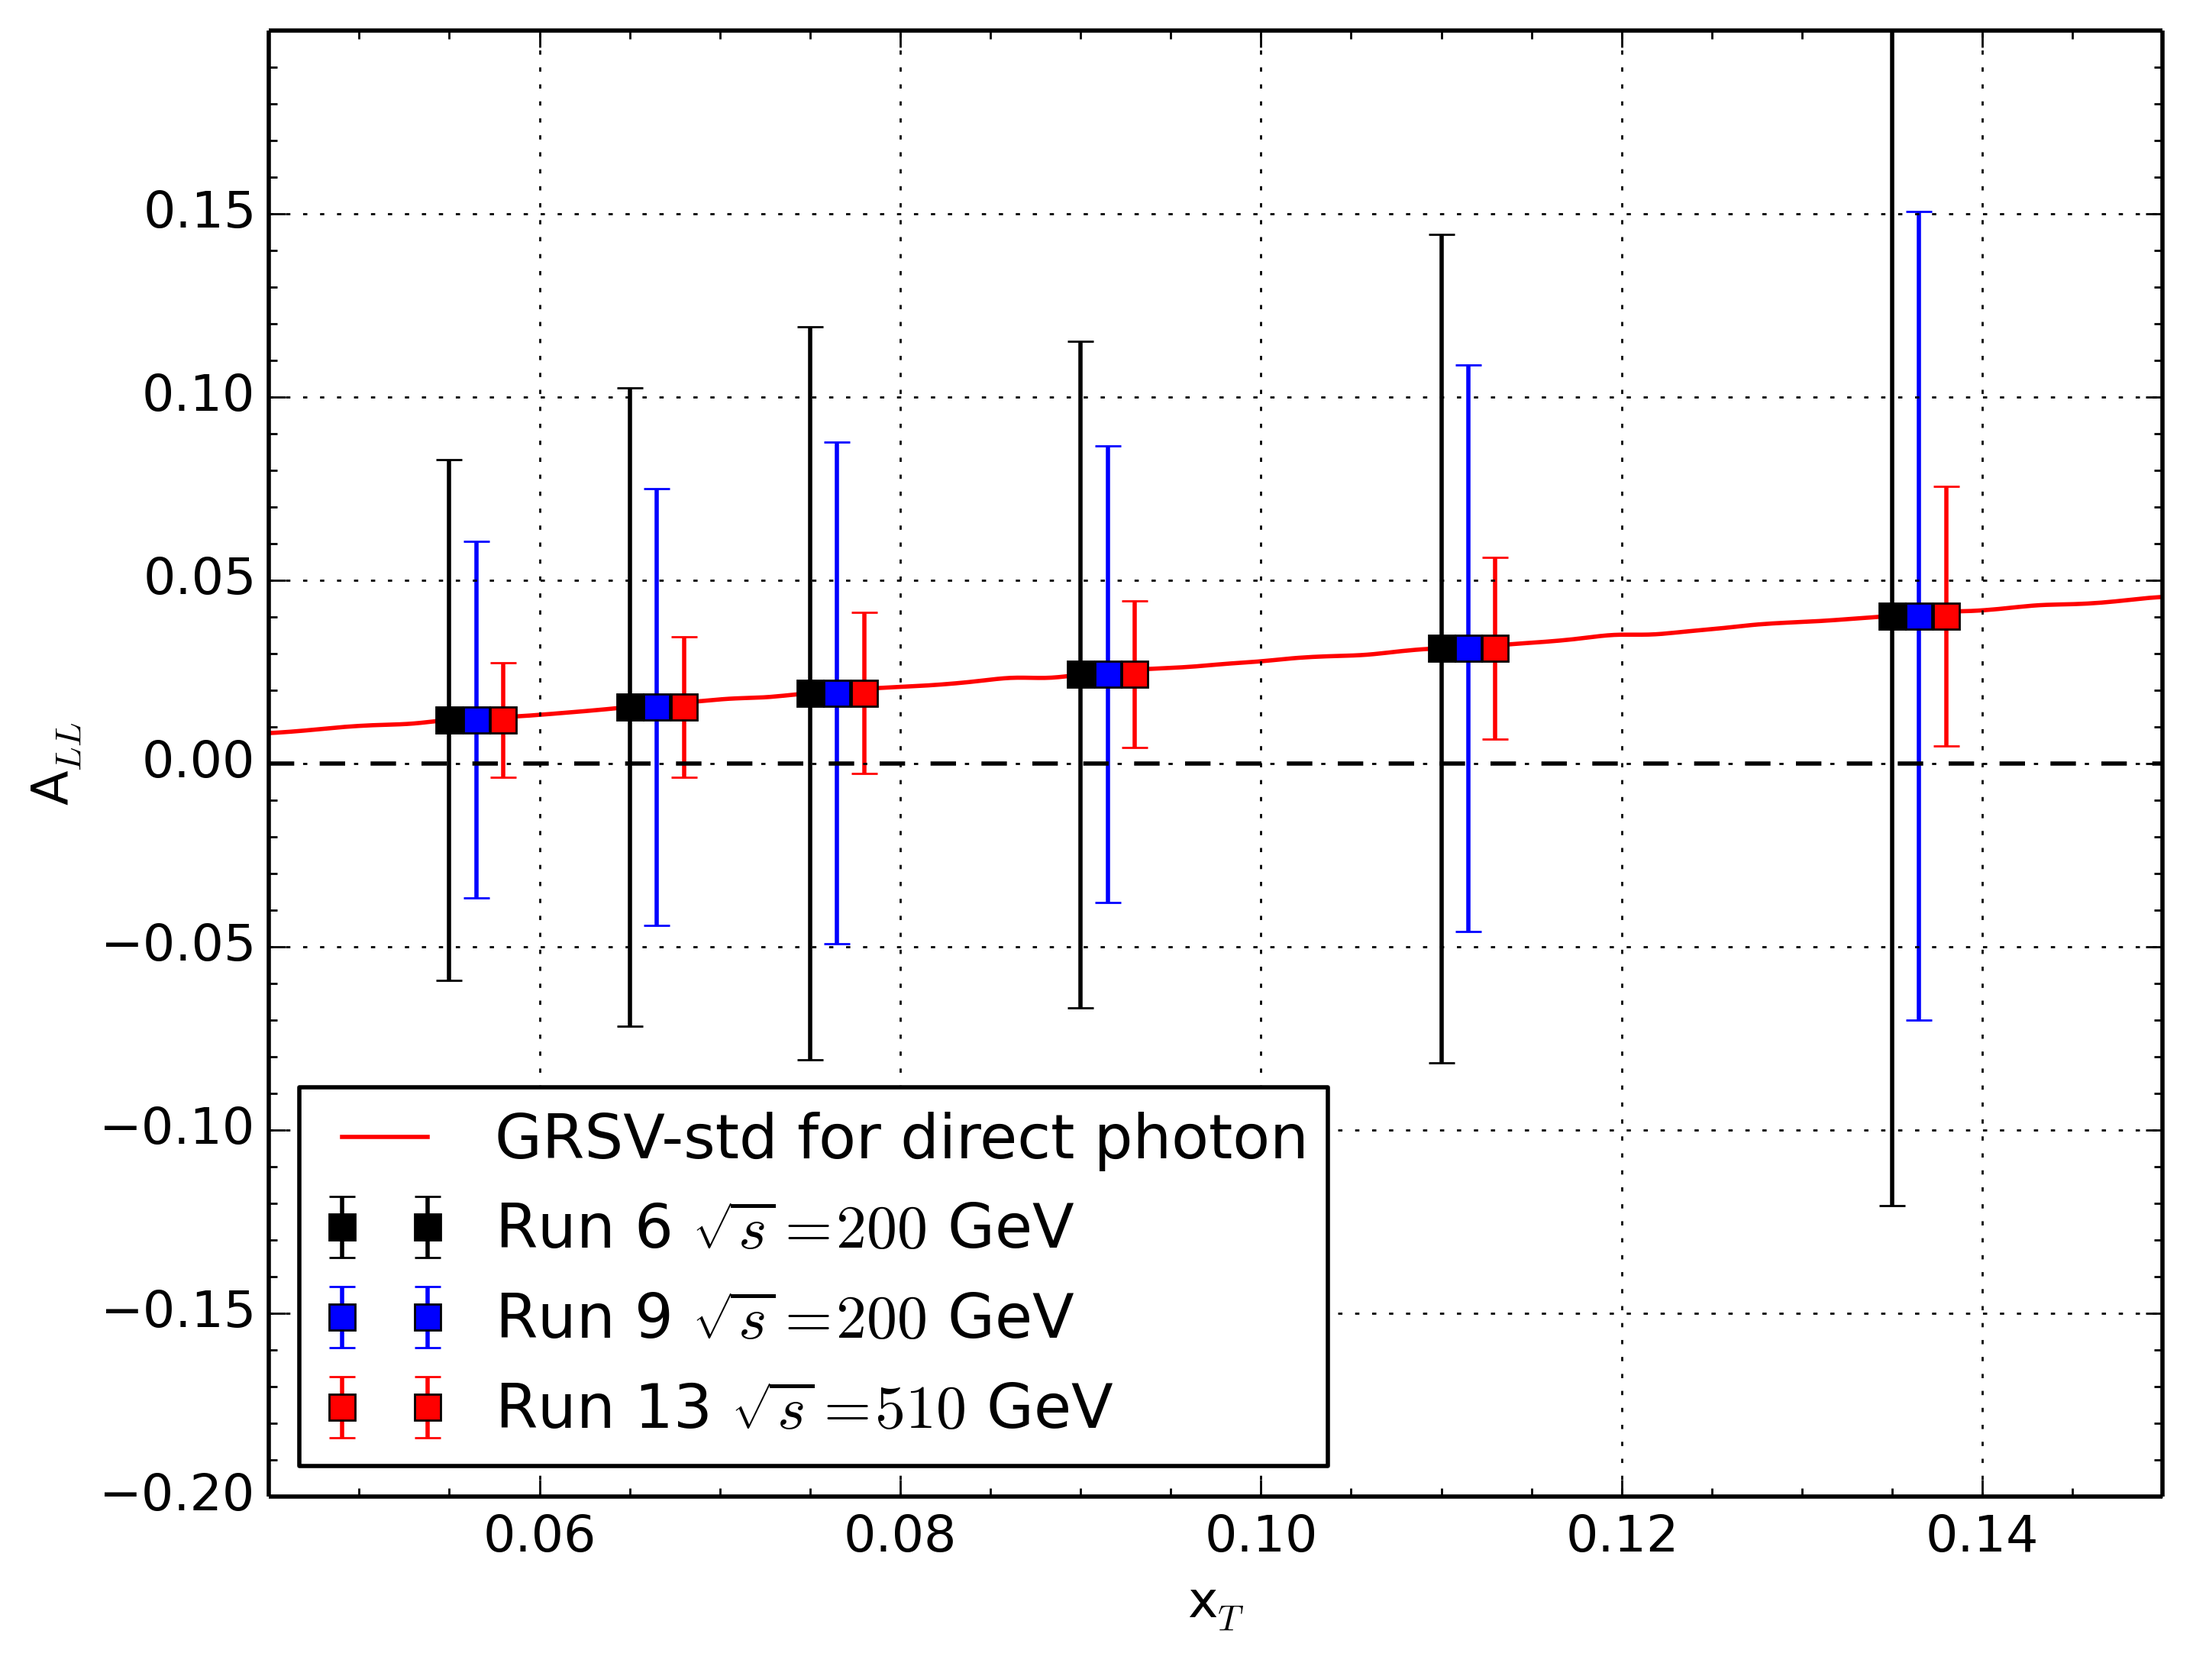
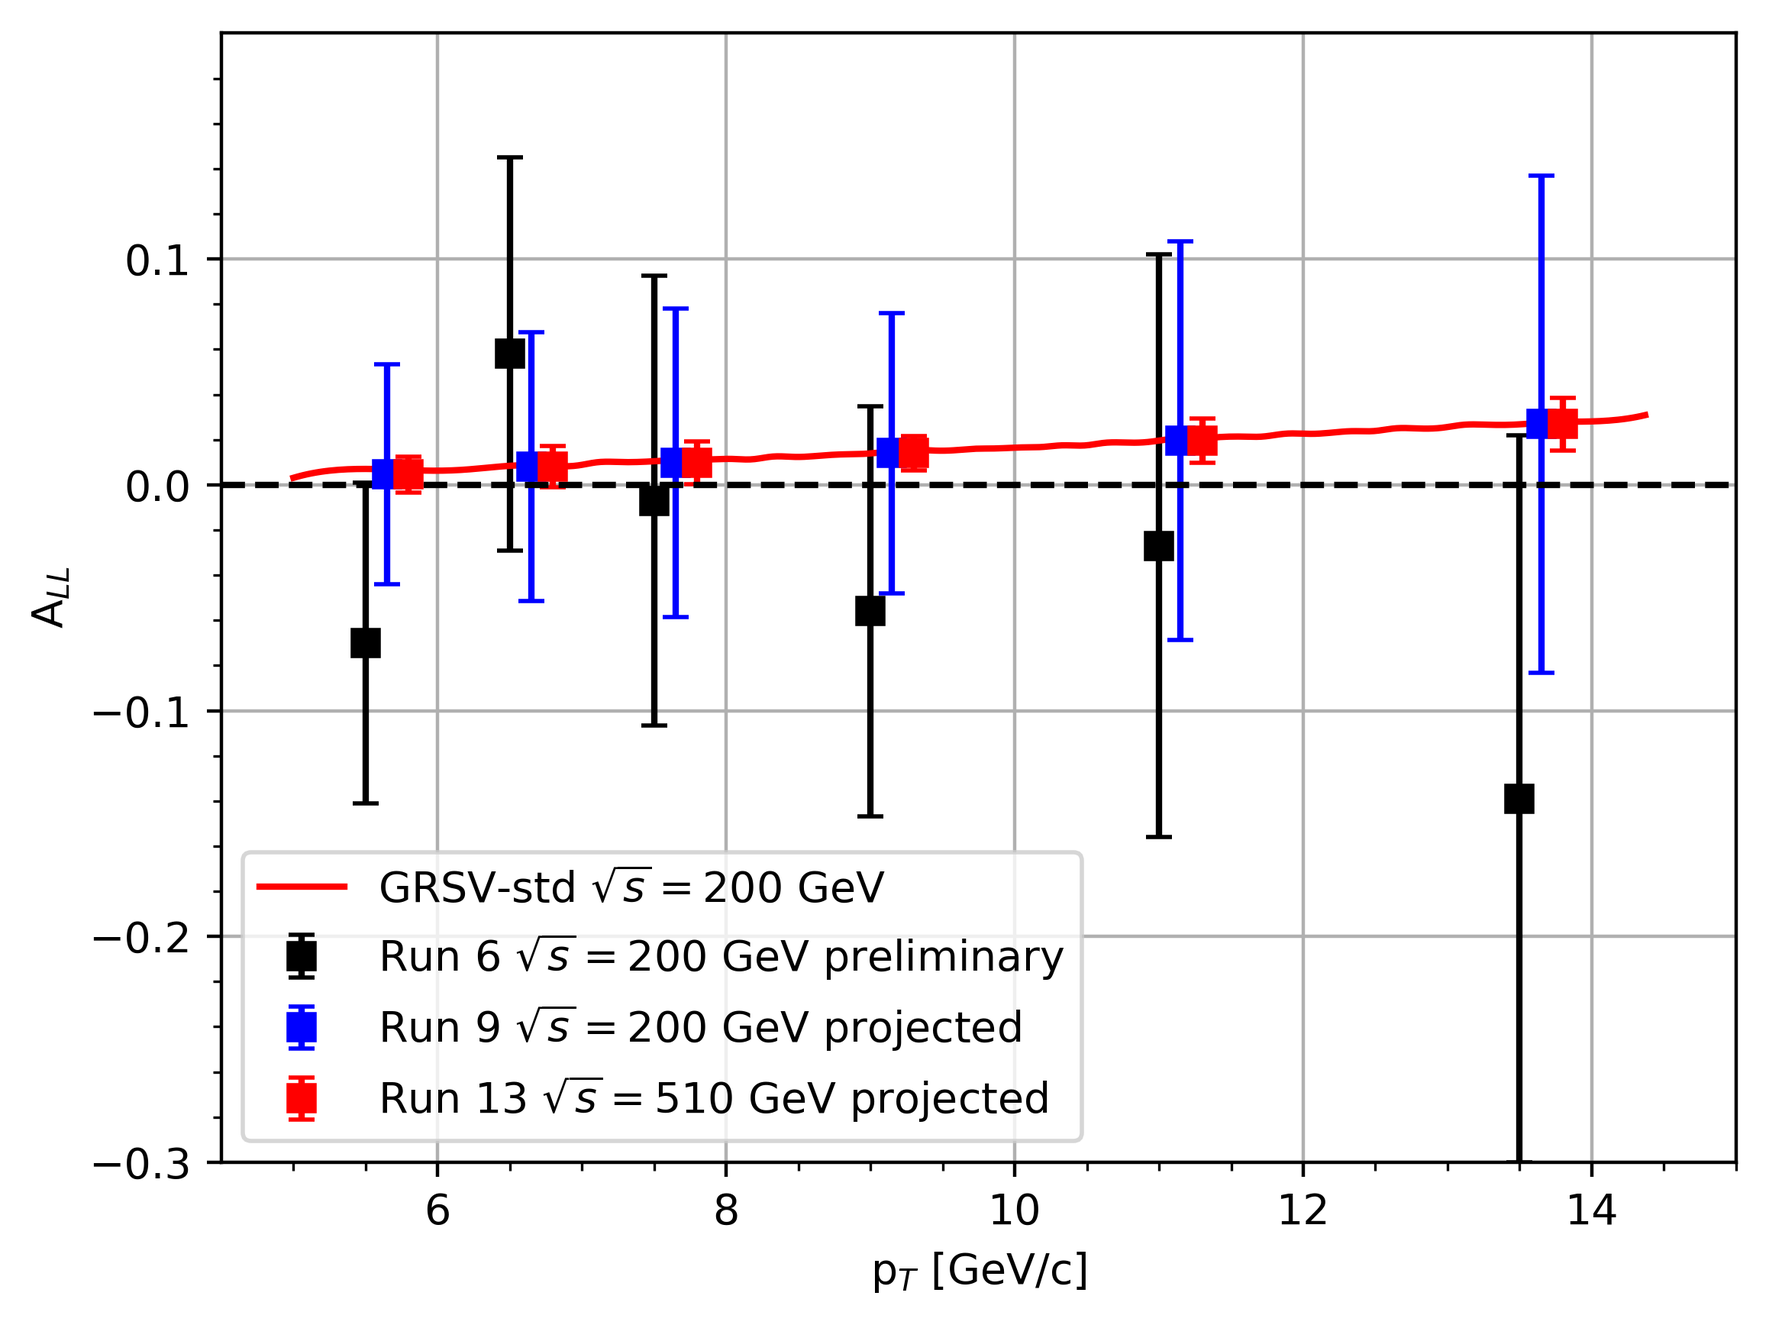
Added run 6 A_LL preliminary

diff --git a/ProjectUncertainties/projection_grsv.py b/ProjectUncertainties/projection_grsv.py
@@ -6,10 +6,10 @@
 import matplotlib.pyplot as plt
 import numpy as np
 import math
-from scipy.interpolate import spline
 
 import csv
 from scipy.interpolate import interp1d
+from scipy.interpolate import spline
 
 # PHENIX recorded luminosities from The RHIC Spin Program: Achievements and Opportunities (1/2015) in units of pb-1
 phenix_lumi_recorded = {
@@ -26,8 +26,8 @@ for i, r in enumerate(phenix_lumi_recorded):
 l_pT_bin_min_R6 = [ 5, 6, 7,  8, 10, 12 ]
 l_pT_bin_max_R6 = [ 6, 7, 8, 10, 12, 15 ]
 
-l_ALL_R6 = [ -0.070 , 0.058 , -0.006 , -0.056 , -0.027 , -0.139 ]
-l_dALL_R6 = [ 0.071 , 0.087 , 0.100 , 0.091 , 0.113 , 0.161 ]
+l_ALL_R6 = [ -0.07 , 0.058 , -0.007 , -0.056 , -0.027 , -0.139 ]
+l_dALL_R6 = [ 0.071 , 0.087 , 0.0996 , 0.0908 , 0.129 , 0.161 ]
 
 l_pT_bin_ctr_R6 = [ (x + y)/2.0 for x, y in zip(l_pT_bin_min_R6, l_pT_bin_max_R6)]
 
@@ -76,21 +76,14 @@ csvfile.close()
 
 print zip( xsec_pi0_pp510_pT, xsec_pi0_pp510_xsec )
 
-# convert pT to xT
-l_xT_bin_ctr_R6 = np.divide( l_pT_bin_ctr_R6 , 200.0/2 )
-xsec_pi0_pp200_xT = np.divide( xsec_pi0_pp200_pT , 200.0/2 )
-xsec_pi0_pp510_xT = np.divide( xsec_pi0_pp510_pT , 510.0/2 )
-
 # create interpolation objects for cross section
 interpol_directphoton_pp200 = interp1d(xsec_directphoton_pp200_pT, xsec_directphoton_pp200_xsec)
 interpol_pi0_pp200 = interp1d(xsec_pi0_pp200_pT, xsec_pi0_pp200_xsec)
 interpol_pi0_pp510 = interp1d(xsec_pi0_pp510_pT, xsec_pi0_pp510_xsec)
-interpol_pi0_pp200_xT = interp1d(xsec_pi0_pp200_xT, xsec_pi0_pp200_xsec)
-interpol_pi0_pp510_xT = interp1d(xsec_pi0_pp510_xT, xsec_pi0_pp510_xsec)
 
 # estimate cross section ratio for direct photons at 510 GeV / direct photons at 200 GeV at pT bins for ALL
-xsec_directphoton_pp510_over_pp200 = [ 1.#( (interpol_pi0_pp510_xT(x)*510.0) / (interpol_pi0_pp200_xT(x)*200.0) )
-                                       for x in l_xT_bin_ctr_R6 ]
+xsec_directphoton_pp510_over_pp200 = [ ( interpol_pi0_pp510(x) / interpol_pi0_pp200(x) )
+                                       for x in l_pT_bin_ctr_R6 ]
 print "Cross section ratios:"
 print xsec_directphoton_pp510_over_pp200
 
@@ -126,27 +119,17 @@ plt.show()
 plt.close()
 
 
-# DSSV theory curve
-fig_projected_dALL_pT = plt.figure()
-dssv_pT = np.array( [ 5.50388, 6.03711, 6.50681, 6.86229, 7.50971, 8.27140, 9.00771, 9.65518, 10.4930, 11.0008, 11.7244, 12.5877, 13.5018, 14.3523, 14.7459 ] ) 
-dssv_ALL = np.array( [ 0.00348347, 0.00630450, 0.00727476, 0.00915544, 0.0101439, 0.0120662, 0.0139859, 0.0168186, 0.0187488, 0.0197229, 0.0225634, 0.0244962, 0.0282783, 0.0302097, 0.0320943 ] )
-dssv_xT = np.divide( dssv_pT , 200.0/2 )
-dssv_xnew = np.linspace( dssv_xT.min(), dssv_xT.max(), 300)
-dssv_smooth = spline( dssv_xT, dssv_ALL, dssv_xnew)
-#plt.plot( dssv_xnew, dssv_smooth, color='r', label='GRSV-std for direct photon' )
 
 # GRSV theory curve
-grsv_pT = np.array( [ 1.10e+1, 1.15e+1, 1.20e+1, 1.25e+1, 1.30e+1, 1.35e+1, 1.40e+1, 1.45e+1, 1.50e+1, 1.55e+1, 1.60e+1, 1.65e+1, 1.70e+1, 1.75e+1, 1.80e+1, 1.85e+1, 1.90e+1, 1.95e+1, 2.00e+1, 2.05e+1, 2.10e+1, 2.15e+1, 2.20e+1, 2.25e+1, 2.30e+1, 2.35e+1, 2.40e+1, 2.45e+1, 2.50e+1, 2.55e+1, 2.60e+1,  2.65e+1,  2.70e+1,  2.75e+1,  2.80e+1,  2.85e+1,  2.90e+1,  2.95e+1,  3.00e+1,  3.05e+1,  3.10e+1, 3.15e+1, 3.20e+1, 3.25e+1, 3.30e+1, 3.35e+1, 3.40e+1, 3.45e+1, 3.50e+1, 3.55e+1, 3.60e+1, 3.65e+1, 3.70e+1, 3.75e+1, 3.80e+1, 3.85e+1, 3.90e+1, 3.95e+1, 4.00e+1 ] ) 
-grsv_ALL = np.array( [ 7.93e-3, 8.33e-3, 9.04e-3, 9.93e-3, 1.05e-2, 1.09e-2, 1.19e-2, 1.25e-2, 1.29e-2, 1.36e-2, 1.44e-2, 1.53e-2, 1.62e-2, 1.69e-2, 1.77e-2, 1.81e-2, 1.90e-2, 1.98e-2, 2.05e-2, 2.10e-2, 2.16e-2, 2.25e-2, 2.34e-2, 2.34e-2, 2.44e-2, 2.53e-2, 2.59e-2, 2.64e-2, 2.72e-2, 2.79e-2, 2.88e-2, 2.93e-2, 2.97e-2, 3.07e-2, 3.14e-2, 3.17e-2, 3.25e-2, 3.32e-2, 3.41e-2, 3.51e-2, 3.52e-2, 3.60e-2, 3.69e-2, 3.79e-2, 3.85e-2, 3.90e-2, 3.97e-2, 4.04e-2, 4.13e-2, 4.16e-2, 4.23e-2, 4.32e-2, 4.35e-2, 4.41e-2, 4.51e-2, 4.57e-2, 4.60e-2, 4.67e-2, 4.76e-2 ] )
-grsv_xT = np.divide( grsv_pT , 510.0/2 )
-grsv_xnew = np.linspace( grsv_xT.min(), grsv_xT.max(), 300)
-grsv_smooth = spline( grsv_xT, grsv_ALL, grsv_xnew)
-plt.plot( grsv_xnew, grsv_smooth, color='r', label='GRSV-std for direct photon' )
-
+grsv_pT = np.array( [ 5., 6.024, 6.183, 6.642, 6.815, 6.968, 7.107, 7.281, 7.726, 7.879, 8.039, 8.178, 8.324, 8.484, 8.617, 8.783, 8.949, 9.102, 9.284, 9.422, 9.561, 9.714, 9.867, 10.05, 10.19, 10.33, 10.49, 10.62, 10.82, 10.94, 11.1, 11.25, 11.41, 11.57, 11.72, 11.88, 12.06, 12.2, 12.34, 12.49, 12.64, 12.81, 12.96, 13.11, 13.27, 13.42, 13.57, 6.34, 6.49, 7.41, 7.58, 13.75, 13.9, 14.2, 14.37 ] )
+grsv_ALL = np.array( [ 0.0031, 0.006276, 0.006693, 0.008716, 0.008287, 0.008551, 0.01001, 0.01007, 0.01113, 0.01124, 0.01147, 0.01129, 0.01253, 0.01235, 0.01274, 0.01344, 0.0137, 0.01457, 0.01558, 0.01522, 0.01523, 0.01595, 0.01611, 0.01657, 0.01676, 0.01749, 0.01746, 0.01859, 0.01866, 0.01908, 0.02039, 0.0204, 0.02111, 0.02137, 0.02138, 0.02266, 0.02258, 0.02313, 0.02377, 0.02381, 0.02503, 0.02493, 0.02526, 0.02659, 0.02663, 0.02656, 0.02709, 0.00703, 0.007994, 0.009476, 0.009963, 0.02798, 0.02798, 0.02896, 0.03088 ] )
+grsv_xnew = np.linspace( grsv_pT.min(), grsv_pT.max(), 300)
+grsv_smooth = spline( grsv_pT, grsv_ALL, grsv_xnew)
+plt.plot( grsv_xnew, grsv_smooth, color='r', label='GRSV-std $\sqrt{s} = 200$ GeV' )
 
 # interpolate for ALL from GRSV
-interpol_l_ALL_0 = interp1d(grsv_xT, grsv_ALL)
-l_ALL_0 = [ interpol_l_ALL_0(x) for x in l_xT_bin_ctr_R6 ]
+interpol_l_ALL_0 = interp1d(grsv_pT, grsv_ALL)
+l_ALL_0 = [ interpol_l_ALL_0(x) for x in l_pT_bin_ctr_R6 ]
 
 # calculate projected uncertainties for other runs based on luminosity
 l_dALL_projected_R13 = [ x
@@ -162,27 +145,28 @@ l_dALL_projected_R9 = [ x * math.sqrt( phenix_lumi_recorded[ 'Run6pp200' ] ) / m
                         for x in l_dALL_R6 ]
 
 # offset x-values for better visibility
-l_xT_bin_ctr_R13 = [ x + 0.3/100.0 for x in l_xT_bin_ctr_R6 ]
+l_pT_bin_ctr_R13 = [ x + 0.3 for x in l_pT_bin_ctr_R6 ]
 
 # offset x-values for better visibility
-l_xT_bin_ctr_R9 = [ x + 0.15/100.0 for x in l_xT_bin_ctr_R6 ]
+l_pT_bin_ctr_R9 = [ x + 0.15 for x in l_pT_bin_ctr_R6 ]
+l_pT_bin_ctr_R6_R9 = [ x + 0.15 for x in l_pT_bin_ctr_R6 ]
+
 
 # plot Run6 and other projected uncertainties, collection 1
-plt.errorbar( l_xT_bin_ctr_R6 , l_ALL_0 , yerr=l_dALL_R6 , fmt='sk' , label='Run 6 $\sqrt{s} = 200$ GeV' )
-plt.errorbar( l_xT_bin_ctr_R9 , l_ALL_0 , yerr=l_dALL_projected_R9 , fmt='sb' , label='Run 9 $\sqrt{s} = 200$ GeV' )
-plt.errorbar( l_xT_bin_ctr_R13 , l_ALL_0 , yerr=l_dALL_projected_R13 , fmt='sr' , label='Run 13 $\sqrt{s} = 510$ GeV' )
+plt.errorbar( l_pT_bin_ctr_R6 , l_ALL_R6 , yerr=l_dALL_R6 , fmt='sk' , capsize=3 , label='Run 6 $\sqrt{s} = 200$ GeV preliminary' )
+plt.errorbar( l_pT_bin_ctr_R9 , l_ALL_0 , yerr=l_dALL_projected_R9 , fmt='sb' , capsize=3 , label='Run 9 $\sqrt{s} = 200$ GeV projected' )
+plt.errorbar( l_pT_bin_ctr_R13 , l_ALL_0 , yerr=l_dALL_projected_R13 , fmt='sr' , capsize=3 , label='Run 13 $\sqrt{s} = 510$ GeV projected' )
 
-
-plt.xlim([4.5/100.0,15/100.0])
-plt.ylim([-0.2,0.2])
+plt.xlim([4.5,15])
+plt.ylim([-0.3,0.2])
 plt.axhline(y=0.,color='k',ls='dashed')
-plt.xticks( np.arange(6/100.0,16/100.0,2/100.0) )
-plt.yticks( np.arange(-0.2,0.2,0.05) )
+plt.xticks( np.arange(6,16,2) )
+plt.yticks( np.arange(-0.3,0.2,0.1) )
 plt.minorticks_on()
 plt.grid()
-plt.xlabel('x$_T$')
+plt.xlabel('p$_T$ [GeV/c]')
 plt.ylabel('A$_{LL}$')
-plt.legend(loc='best')
+plt.legend(loc='lower left')
 plt.savefig('projected_dALL_pT_Run13.png', dpi=400, bbox_inches='tight', transparent=False)
 plt.show()
 plt.close()

diff --git a/AnaHistos/draw_SysErr.C b/AnaHistos/draw_SysErr.C
@@ -130,7 +130,7 @@ void draw_SysErr()
         if(iso)
         {
           latex->DrawLatexNDC(0.45,0.70, "Isolation cut condition");
-          latex->DrawLatexNDC(0.45,0.60, "#splitline{#sqrt{(#Delta#eta)^{2} + (#Delta#phi)^{2}} < 0.5}{E_{cone} < 0.1E_{#gamma}}");
+          latex->DrawLatexNDC(0.45,0.60, "#splitline{r_{cone} = #sqrt{(#delta#eta)^{2} + (#delta#phi)^{2}} = 0.5}{E_{cone} < 0.1E_{#gamma}}");
         }
 
         pad2->cd();

diff --git a/AnaHistos/draw_BgRatio.C b/AnaHistos/draw_BgRatio.C
@@ -89,7 +89,7 @@ void draw_BgRatio()
 
     mcd(3);
     TGraphErrors *gr = qt_rbg->Graph(part);
-    aset(gr, "p_{T} [GeV]","#Delta r_{sig}", 6.1,16., -0.02,0.1);
+    aset(gr, "p_{T} [GeV]","#Deltar_{sig}", 6.1,16., -0.02,0.1);
     style(gr, part+20, part+1);
     char *opt = part==0 ? "AP" : "P";
     gr->Draw(opt);
